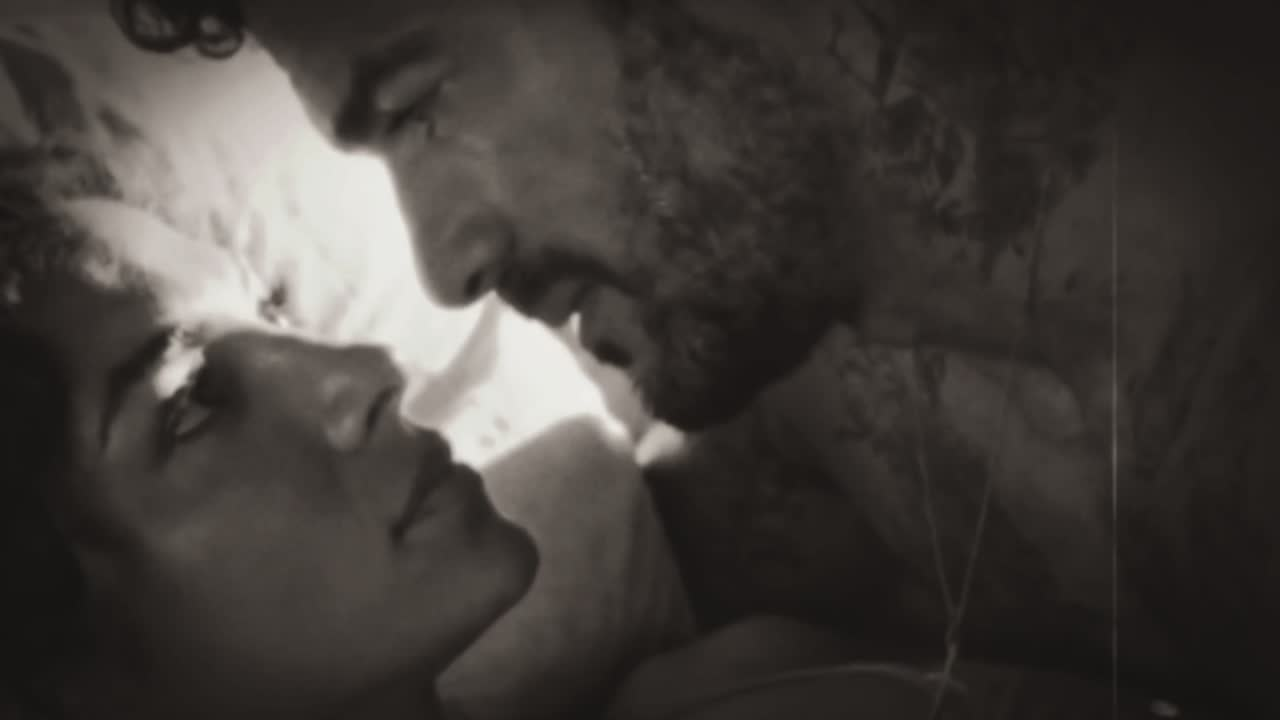
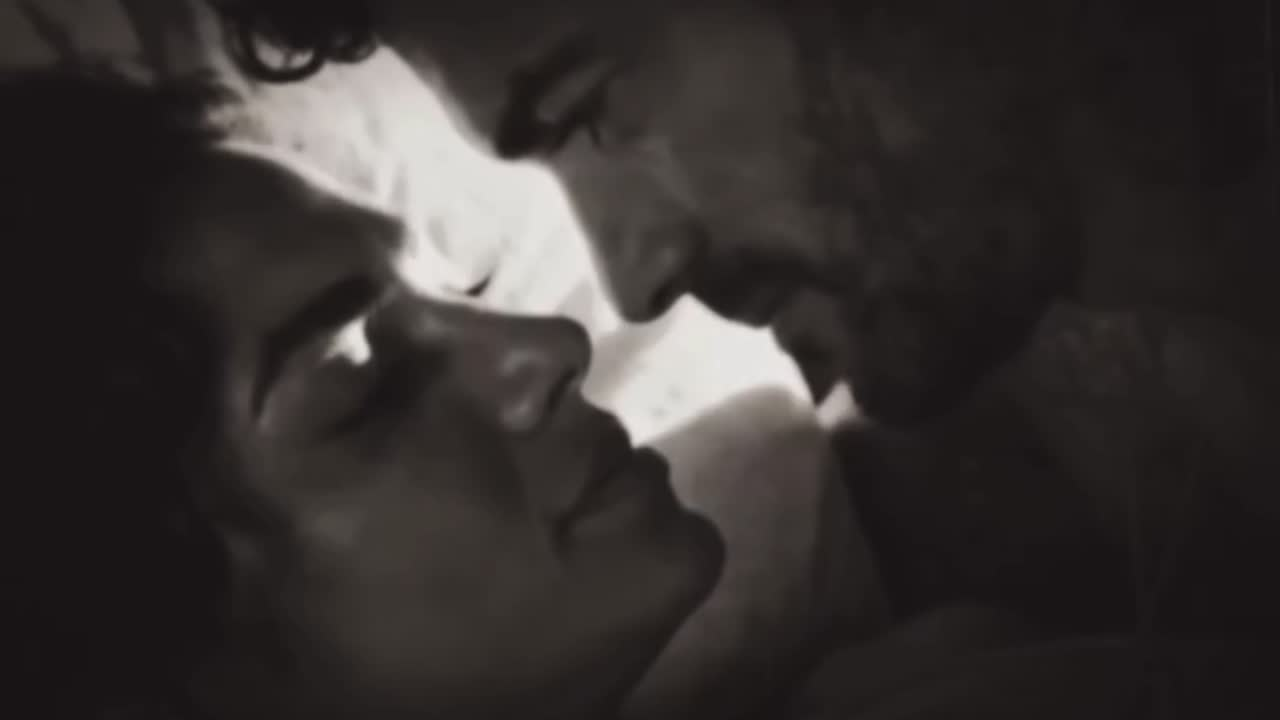
Swap First Morning to the rescored cut
New export from luna-josh-dinner-at-house/luna-josh-firstnight, replacing the
proxy in place. Same slug, so the URL, the journal links and anything already
shared keep working.

VERIFIED IT IS THE SAME SCENE before overwriting anything — same shots at the
same beats, checked frame by frame against the old proxy. Worth doing: the
folder is named for the dinner and the file for the night, neither of which is
"first morning", and publishing the wrong footage over a live scene is not a
mistake that announces itself.

WHAT ACTUALLY CHANGED is the mix and the frame. Both cuts already carried a
continuous score — near-silence is 0.2% of the new one and 0.7% of the old,
so this is a remix rather than music over a dry cut, and the envelopes only
correlate 0.906. It also comes in 1.8s shorter (durationSeconds 143 -> 141)
and is cropped tighter: 1320x764 against 1320x890.

POSTER MOVED TO 0:08. The old card was the two of them forehead to forehead;
that framing is outside the new crop, and the script's default 0:03 grab
landed on something tighter and more ambiguous that did not read as a
two-hander on a browse card. 0:08 is the nearest equivalent in the new cut —
p95 luma 200 against the old 206, so it holds up just as well dark.

Proxy uploaded to Blob before this commit, since pushing deploys.

STILL OPEN, for Melissa: the scene is titled "First Morning" and the synopsis
calls it "a quiet farmhouse morning", but the footage is a night scene and
[…]

diff --git a/lib/content/videos.ts b/lib/content/videos.ts
@@ -166,9 +166,13 @@ export const videos: Video[] = [
     title: "First Morning",
     synopsis:
       "A quiet farmhouse morning between Luna and Josh — the calm before everything shifts.",
+    // Rescored 2026-08-06 from luna-josh-dinner-at-house/luna-josh-firstnight.
+    // Same scene and same shots, re-exported with a new mix and a tighter
+    // frame (1320x764 against the old 1320x890), which is why the poster moved
+    // to 0:08 — the old grab sat outside the new crop.
     file: "luna-josh-first-morning.proxy.mp4",
     poster: "/posters/luna-josh-first-morning.jpg",
-    durationSeconds: 143,
+    durationSeconds: 141,
     access: "free",
     mature: false,
     feelings: ["trust", "desire"],
